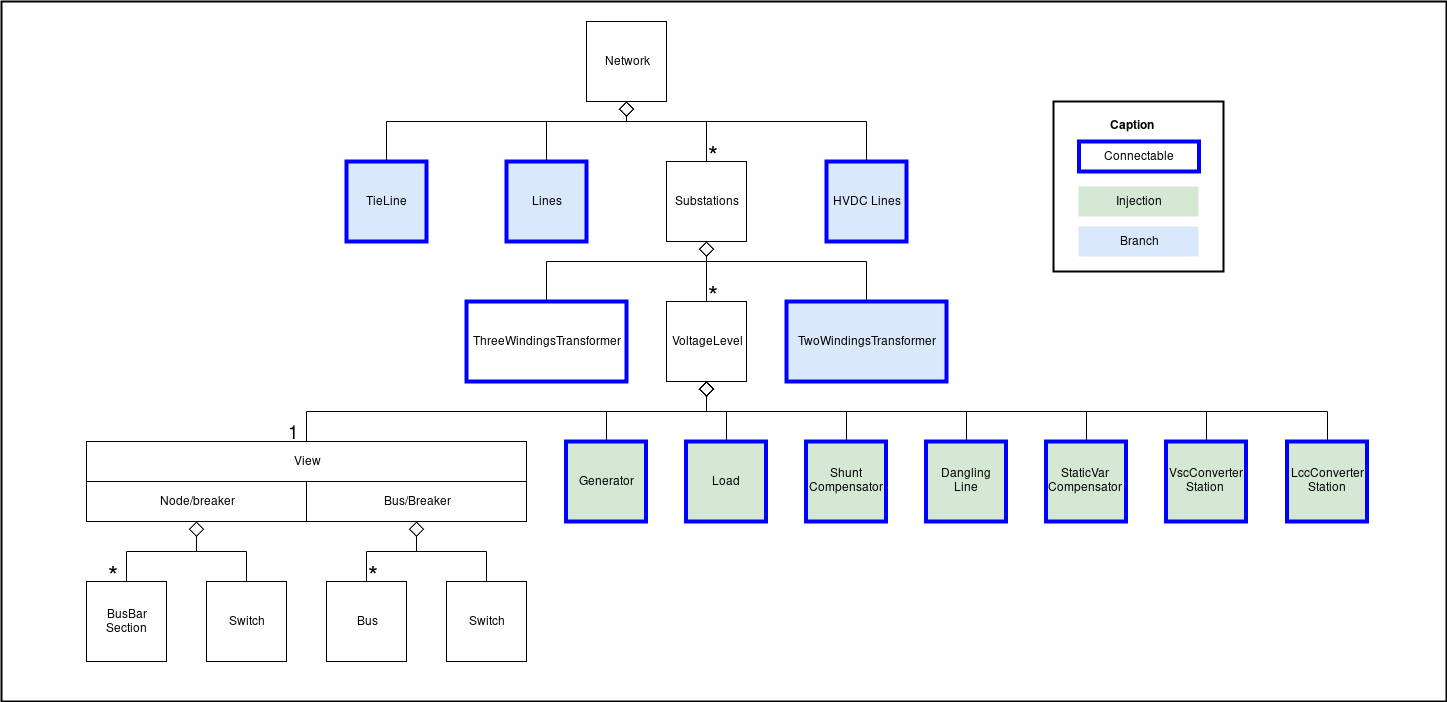
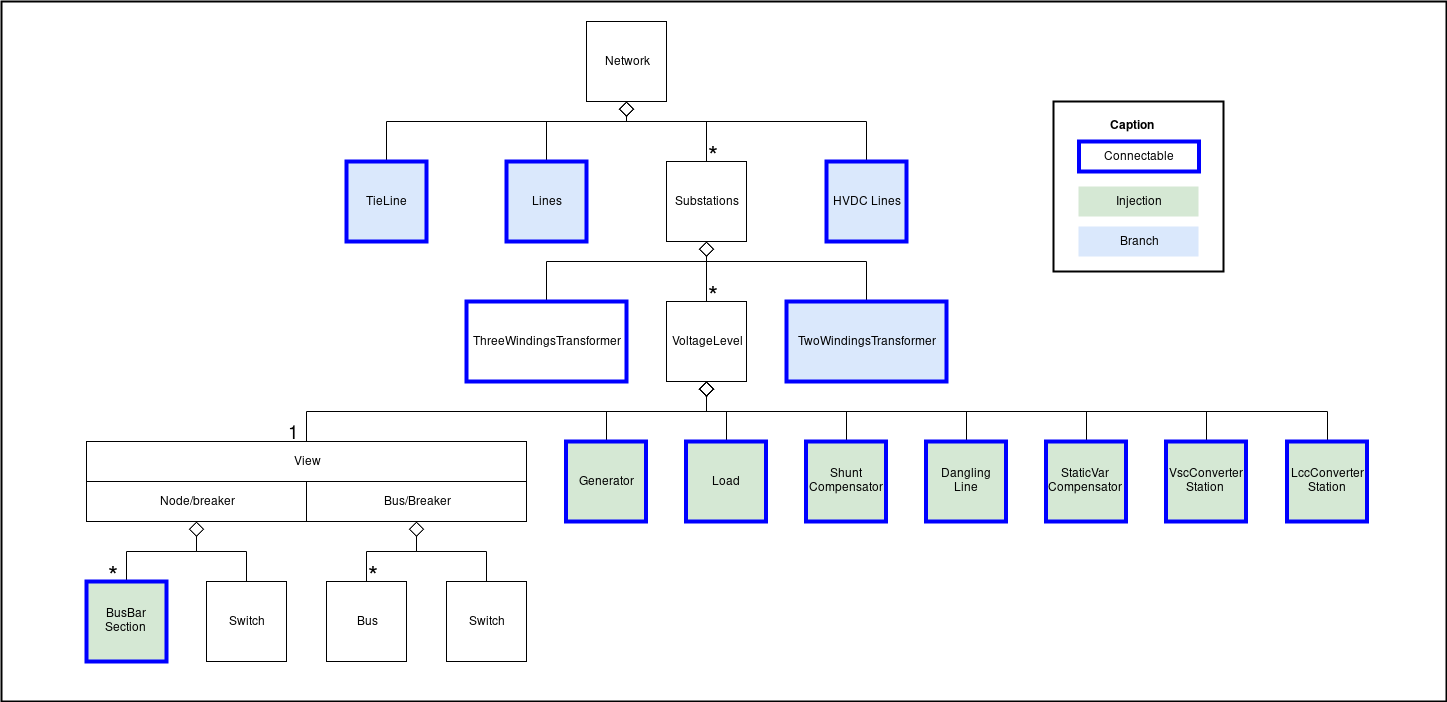
added network component + updated network overview

Changed region(s): [[0.0311, 0.8077, 0.1244, 0.9573]]

diff --git a/docs/architecture/iidm/model/terminal.md b/docs/architecture/iidm/model/terminal.md
@@ -1,3 +1,77 @@
 # IIDM - Terminal
 
-*TO BE COMPLETED*
+The `com.powsybl.iidm.network.Terminal` interface is used to model an equipment connection point in a [voltage level](voltageLevel.md) topology.
+A terminal is created when the equipment it is connected to is created: it can not be created independently.
+
+## Characteristics
+| Attribute | Type | Required | Default value | Description |
+| --------- | ---- | -------- | ------------- | ----------- |
+| VoltageLevel | `VoltageLevel` | yes | - | The voltage level to which the terminal belongs |
+| NodeBreakerView | `NodeBreakerView` | yes | - | The view to access node/breaker topology information at the terminal |
+| BusBreakerView | `BusBreakerView` | yes | - | The view to access bus/breaker topology information at the terminal |
+| BusView | `BusView` | yes | - | The view to access bus topology information at the terminal |
+| Connectable | `Connectable` | yes | - | The equipment which is connected to the terminal |
+| P | double | no | - | The active power injected at the terminal |
+| Q | double | no | - | The reactive power injected at the terminal |
+| I | double | no | - | The current at the terminal |
+| Connected | boolean | yes | - | The connection status of the terminal (true if the terminal is connected, else false) |
+
+### View
+The available views for the terminal depends of the topology level (node/breaker or bus/breaker) of the voltage level it belongs to.
+More information about topology levels can be found on the [voltage level page](voltageLevel.md).
+
+#### NodeBreakerView
+`NodeBreakerView` is a view available in a node/breaker topology. All elements are viewed as physical ones: busbar sections,
+breakers and disconnectors.
+
+**Characteristics**
+| Attribute | Type | Required | Default value | Description |
+| --------- | ---- | -------- | ------------- | ----------- |
+| Node | int | yes | - | The connection node of the viewed terminal in a node/breaker topology |
+
+#### BusBreakerView
+`BusBreakerView` is a view available in a node/breaker or a bus/breaker topology. It presents an aggregated view of the topology
+made of buses and switches.
+
+**Characteristics**
+| Attribute | Type | Required | Default value | Description |
+| --------- | ---- | -------- | ------------- | ----------- |
+| Bus | `Bus` | yes | - | The connection bus of the viewed terminal in a bus/breaker topology |
+| ConnectableBus | `Bus` | yes | - | A bus that can be used to connect the viewed terminal in a bus/breaker topology |
+
+#### BusView
+`BusView` is a view available in a node/breaker, a bus/breaker or a bus only topology. It presents an aggregated view of the topology
+made of buses.
+
+**Characteristics**
+| Attribute | Type | Required | Default value | Description |
+| --------- | ---- | -------- | ------------- | ----------- |
+| Bus | `Bus` | yes | - | The connection bus of the viewed terminal in a bus only topology |
+| ConnectableBus | `Bus` | yes | - | A bus that can be used to connect the viewed terminal in a bus only topology |
+
+## Examples
+This example shows how to use the terminal of an [injection](injection.md):
+```java
+Terminal terminal = network.getLoad('LOAD').getTerminal();
+if (Double.isNan(terminal.getP()) {
+    terminal.setP(400);
+}
+```
+
+This example shows how to use a terminal of a [branch](branch.md):
+```java
+Terminal terminal = network.getLine('LINE').getTerminal1().setP(300).setQ(100);
+```
+
+This example shows how to use a terminal of a [three windings power transformer](threeWindingsTransformer.md):
+```java
+Terminal terminal = network.getThreeWindingsTransformer('TWT3').getLeg1().getTerminal().setP(0.0);
+```
+
+## Reference
+See also:
+- [Voltage Level](voltageLevel.md)
+- [Connectable](connectable.md)
+- [Busbar Sections](busbarSection.md)
+- [Bus](bus.md)
+- [Switch](switch.md)

diff --git a/docs/architecture/iidm/model/switch.md b/docs/architecture/iidm/model/switch.md
@@ -1,0 +1,72 @@
+# IIDM - Switch
+
+The `com.powsybl.iidm.network.Switch` interface is used to a switch which connects equipments in a [voltage level](voltageLevel.md).
+
+## Characteristics
+| Attribute | Type | Required | Default value | Description |
+| --------- | ---- | -------- | ------------- | ----------- |
+| Kind | `SwitchKind` | yes | - | The kind of switch |
+| Open | boolean | yes | false | The open status of the switch |
+| Retained | boolean | yes | false | The retain status of the switch |
+| Fictitious | boolean | yes | false | The fictitious status of the switch |
+| Node1 | int | no | - | The first node the switch is connected to |
+| Node2 | int | no | - | The second node the switch is connected to |
+| Bus1 | String | no | - | The first bus the switch is connected to |
+| Bus2 | String | no | - | The second bus the switch is connected to |
+
+Node1 and Node2 are required in a node/breaker topology.
+Bus1 and Bus2 are required in a bus/breaker topology.
+
+### SwitchKind
+The `com.powsybl.iidm.network.SwitchKind` enum contains three values:
+- BREAKER
+- DISCONNECTOR
+- LOAD_BREAK_SWITCH
+
+In a bus/breaker topology, `SwitchKind` can only be set to BREAKER.
+
+## Examples
+This example shows how to create a new Switch in a network with a node/breaker topology:
+```java
+Switch s = voltageLevel.getNodeBreakerView().newSwitch()
+    .setId('S')
+    .setNode1(1)
+    .setNode2(2)
+    .setKind(SwitchKind.DISCONNECTOR)
+    .setOpen(false)
+    .setRetained(false)
+    .add();
+```
+
+In a node/breaker topology, a switch can also be created with the function `newDisconnector()` or `newBreaker()` if it is respectively
+a disconnector or a breaker:
+```java
+Switch s = voltageLevel.getNodeBreakerView().newDisconnector()
+    .setId('SD')
+    .setNode1(3)
+    .setNode2(4)
+    .setOpen(false)
+    .setRetained(false)
+    .add();
+
+Switch s = voltageLevel.getNodeBreakerView().newBreaker()
+    .setId('SB')
+    .setNode1(5)
+    .setNode2(6)
+    .setOpen(false)
+    .add();
+```
+
+This example shows how to create a new Switch in a network with a bus/breaker topology:
+```java
+Switch s = voltageLevel.getBusBreakerView().newSwitch()
+    .setId('S')
+    .setBus1('B1')
+    .setBus2('B2')
+    .setOpen(false)
+    .add();
+```
+
+## References
+See also:
+- [Voltage Level](voltageLevel.md)

diff --git a/docs/architecture/iidm/model/vscConverterStation.md b/docs/architecture/iidm/model/vscConverterStation.md
@@ -1,3 +1,34 @@
 # IIDM - VSC Converter Station
 
-*TO BE COMPLETED*
+The `com.powsybl.iidm.network.VscConverterStation` interface is used to model a VSC Converter Station. In IIDM, this is
+a sub interface of [HVDC Converter Station](hvdcConverterStation.md).
+
+## Characteristics
+| Attribute | Type | Required | Default value | Description |
+| --------- | ---- | -------- | ------------- | ----------- |
+| VoltageRegulatorOn | boolean | yes | - | The voltage regulator status |
+| VoltageSetpoint | double | no | - | The voltage setpoint |
+| ReactivePowerSetpoint | double | no | - | The reactive power setpoint |
+
+## Setpoints
+The voltage setpoint is required if the voltage regulator is on.
+The reactive power setpoint is required if the voltage regulator is off.
+
+## Examples
+This example shows how to create a new LCC Converter Station in a network:
+```java
+VscConverterStation vcs = voltageLevel.newVscConverterStation()
+    .setId('VCS')
+    .setConnectableBus('B1')
+    .setBus('B1')
+    .setLossFactor(0.011f)
+    .setVoltageRegulatorOn(true)
+    .setVoltageSetpoint(405.0)
+    .add();
+```
+
+## References
+See also:
+- [HVDC Converter Station](hvdcConverterStation.md)
+- [HVDC Line](hvdcLine.md)
+- [Voltage Level](voltageLevel.md)

diff --git a/docs/architecture/iidm/model/lccConverterStation.md b/docs/architecture/iidm/model/lccConverterStation.md
@@ -1,7 +1,7 @@
 # IIDM - LCC Converter Station
 
 The `com.powsybl.iidm.network.LccConverterStation` interface is used to model a LCC Converter Station. In IIDM, this is
-a sub class of [HVDC Converter Station](hvdcConverterStation.md).
+a sub interface of [HVDC Converter Station](hvdcConverterStation.md).
 
 ## Characteristics
 | Attribute | Type | Required | Default value | Description |
@@ -9,11 +9,20 @@ a sub class of [HVDC Converter Station](hvdcConverterStation.md).
 | PowerFactor | float | yes | - | The power factor |
 
 ## Examples
-
-*TO BE COMPLETED*
+This example shows how to create a new LCC Converter Station in a network:
+```java
+LccConverterStation lcs = voltageLevel.newLccConverterStation()
+    .setId('LCS')
+    .setConnectableBus('B1')
+    .setBus('B1')
+    .setLossFactor(0.011f)
+    .setPowerFactor(0.5f)
+    .add();
+```
 
 ## References
 See also:
 - [HVDC Converter Station](hvdcConverterStation.md)
 - [HVDC Line](hvdcLine.md)
+- [Voltage Level](voltageLevel.md)
 

diff --git a/docs/architecture/iidm/model/injection.md b/docs/architecture/iidm/model/injection.md
@@ -1,11 +1,20 @@
 # IIDM - Injection
 
 The `com.powsybl.iidm.network.Injection` class is used to model an equipment with a single [terminal](terminal.md).
+In IIDM, the Injection interface has seven sub interfaces:
+- [Busbar Section](busbarSection.md)
+- [Dangling Line](danglingLine.md)
+- [Generator](generator.md)
+- [HVDC Converter Station](hvdcConverterStation.md)
+- [Load](load.md)
+- [Shunt Compensator](shuntCompensator.md)
+- [Static VAR Compensator](staticVarCompensator.md)
 
 ## Creation
-Before creating a subclass of Injection, its terminal must be set with the method `setNode(int)` in a Node/Breaker
+Before creating an instance of a sub interface of Injection, its terminal must be set with the method `setNode(int)` in a Node/Breaker
 Topology or `setConnectableBus(String)` and eventually `setBus(String)` in a Bus/Breaker Topology.
 
 ## Reference
 See also:
 - [Connectable](connectable.md)
+- [Terminal](terminal.md)

diff --git a/docs/architecture/iidm/model/busbarSection.md b/docs/architecture/iidm/model/busbarSection.md
@@ -1,0 +1,24 @@
+# IIDM - Busbar Section
+
+The `com.powsybl.iidm.network.BusbarSection` interface is used to model a busbar section, which is a non impedant
+element used in a node/breaker substation topology to connect equipments. In IIDM, it is a sub interface of [Injection](injection.md).
+
+## Characteristics
+| Attribute | Type | Required | Default value | Description |
+| --------- | ---- | -------- | ------------- | ----------- |
+| V | double | no | - | The voltage magnitude of the busbar section |
+| Angle | double | no | - | The voltage angle of the busbar section |
+
+## Examples
+This example shows how to create a new Busbar Section in a network:
+```java
+BusbarSection bbs = voltageLevel.getNodeBreakerView().newBusbarSection()
+    .setId('BBS')
+    .setNode(1)
+    .add();
+```
+
+## References
+See also:
+- [Injection](injection.md)
+- [Voltage Level](voltageLevel.md)

diff --git a/docs/architecture/iidm/model/bus.md b/docs/architecture/iidm/model/bus.md
@@ -1,0 +1,22 @@
+# IIDM - Bus
+
+The `com.powsybl.iidm.network.Bus` interface is used to model a bus, which is a set of equipments connected together through a closed [switch](switch.md).
+It can be a configured object or a result of a computation depending of the context and the topology.
+
+## Characteristics
+| Attribute | Type | Required | Default value | Description |
+| --------- | ---- | -------- | ------------- | ----------- |
+| V | double | no | - | The voltage magnitude of the bus |
+| Angle | double | no | - | The voltage angle of the bus |
+
+## Examples
+This example shows how to create a new Bus in a network:
+```java
+Bus bus = voltageLevel.getBusBreakerView().newBus()
+    .setId('B1')
+    .add();
+```
+
+## References
+See also:
+- [Voltage Level](voltageLevel.md)

diff --git a/docs/architecture/iidm/model/branch.md b/docs/architecture/iidm/model/branch.md
@@ -5,7 +5,7 @@ The `com.powsybl.iidm.network.Branch` interface is used to model an equipment co
 - [TwoWindingsTransformer](twoWindingsTransformer.md)
 
 ## Creation
-Before creating a subclass of Branch, its two terminal must be set by the methods `setVoltageLevel1(String)`, `setVoltageLevel2(String)` and
+Before creating an instance of a sub interface of Branch, its two terminal must be set by the methods `setVoltageLevel1(String)`, `setVoltageLevel2(String)` and
 - either `setNode1(int)` and `setNode2(int)`
 - or `setConnectableBus1(String)` and `setConnectableBus2(String)` and eventually `setBus1(String)` and `setBus2(String)` if the connectable buses are connected
 

diff --git a/docs/architecture/iidm/model/tieLine.md b/docs/architecture/iidm/model/tieLine.md
@@ -1,6 +1,6 @@
 # IIDM - Tie lines
 
-The `com.powsybl.iidm.network.TieLine` interface is used to model a Tie Line. In IIDM, it is a sub class of [Line](line.md).
+The `com.powsybl.iidm.network.TieLine` interface is used to model a Tie Line. In IIDM, it is a sub interface of [Line](line.md).
 A Tie Line is an AC line sharing power between two neighbouring regional grids.
 
 ## Characteristics

diff --git a/docs/architecture/iidm/model/voltageLevel.md b/docs/architecture/iidm/model/voltageLevel.md
@@ -46,6 +46,9 @@ VoltageLevel voltageLevel = substation.newVoltageLevel()
 
 ## References
 See also:
+- [Busbar Sections](busbarSection.md)
+- [Bus](bus.md)
+- [Switch](switch.md)
 - [Substation](substation.md)
 - [Generator] (generator.md)
 - [Load] (load.md)

diff --git a/docs/architecture/iidm/model/threeWindingsTransformer.md b/docs/architecture/iidm/model/threeWindingsTransformer.md
@@ -74,3 +74,4 @@ ThreeWindingsTransformer threeWindingsTransformer = substation.newThreeWindingsT
 ## References
 See also:
 - [Substation](substation.md)
+- [Terminal](terminal.md)
